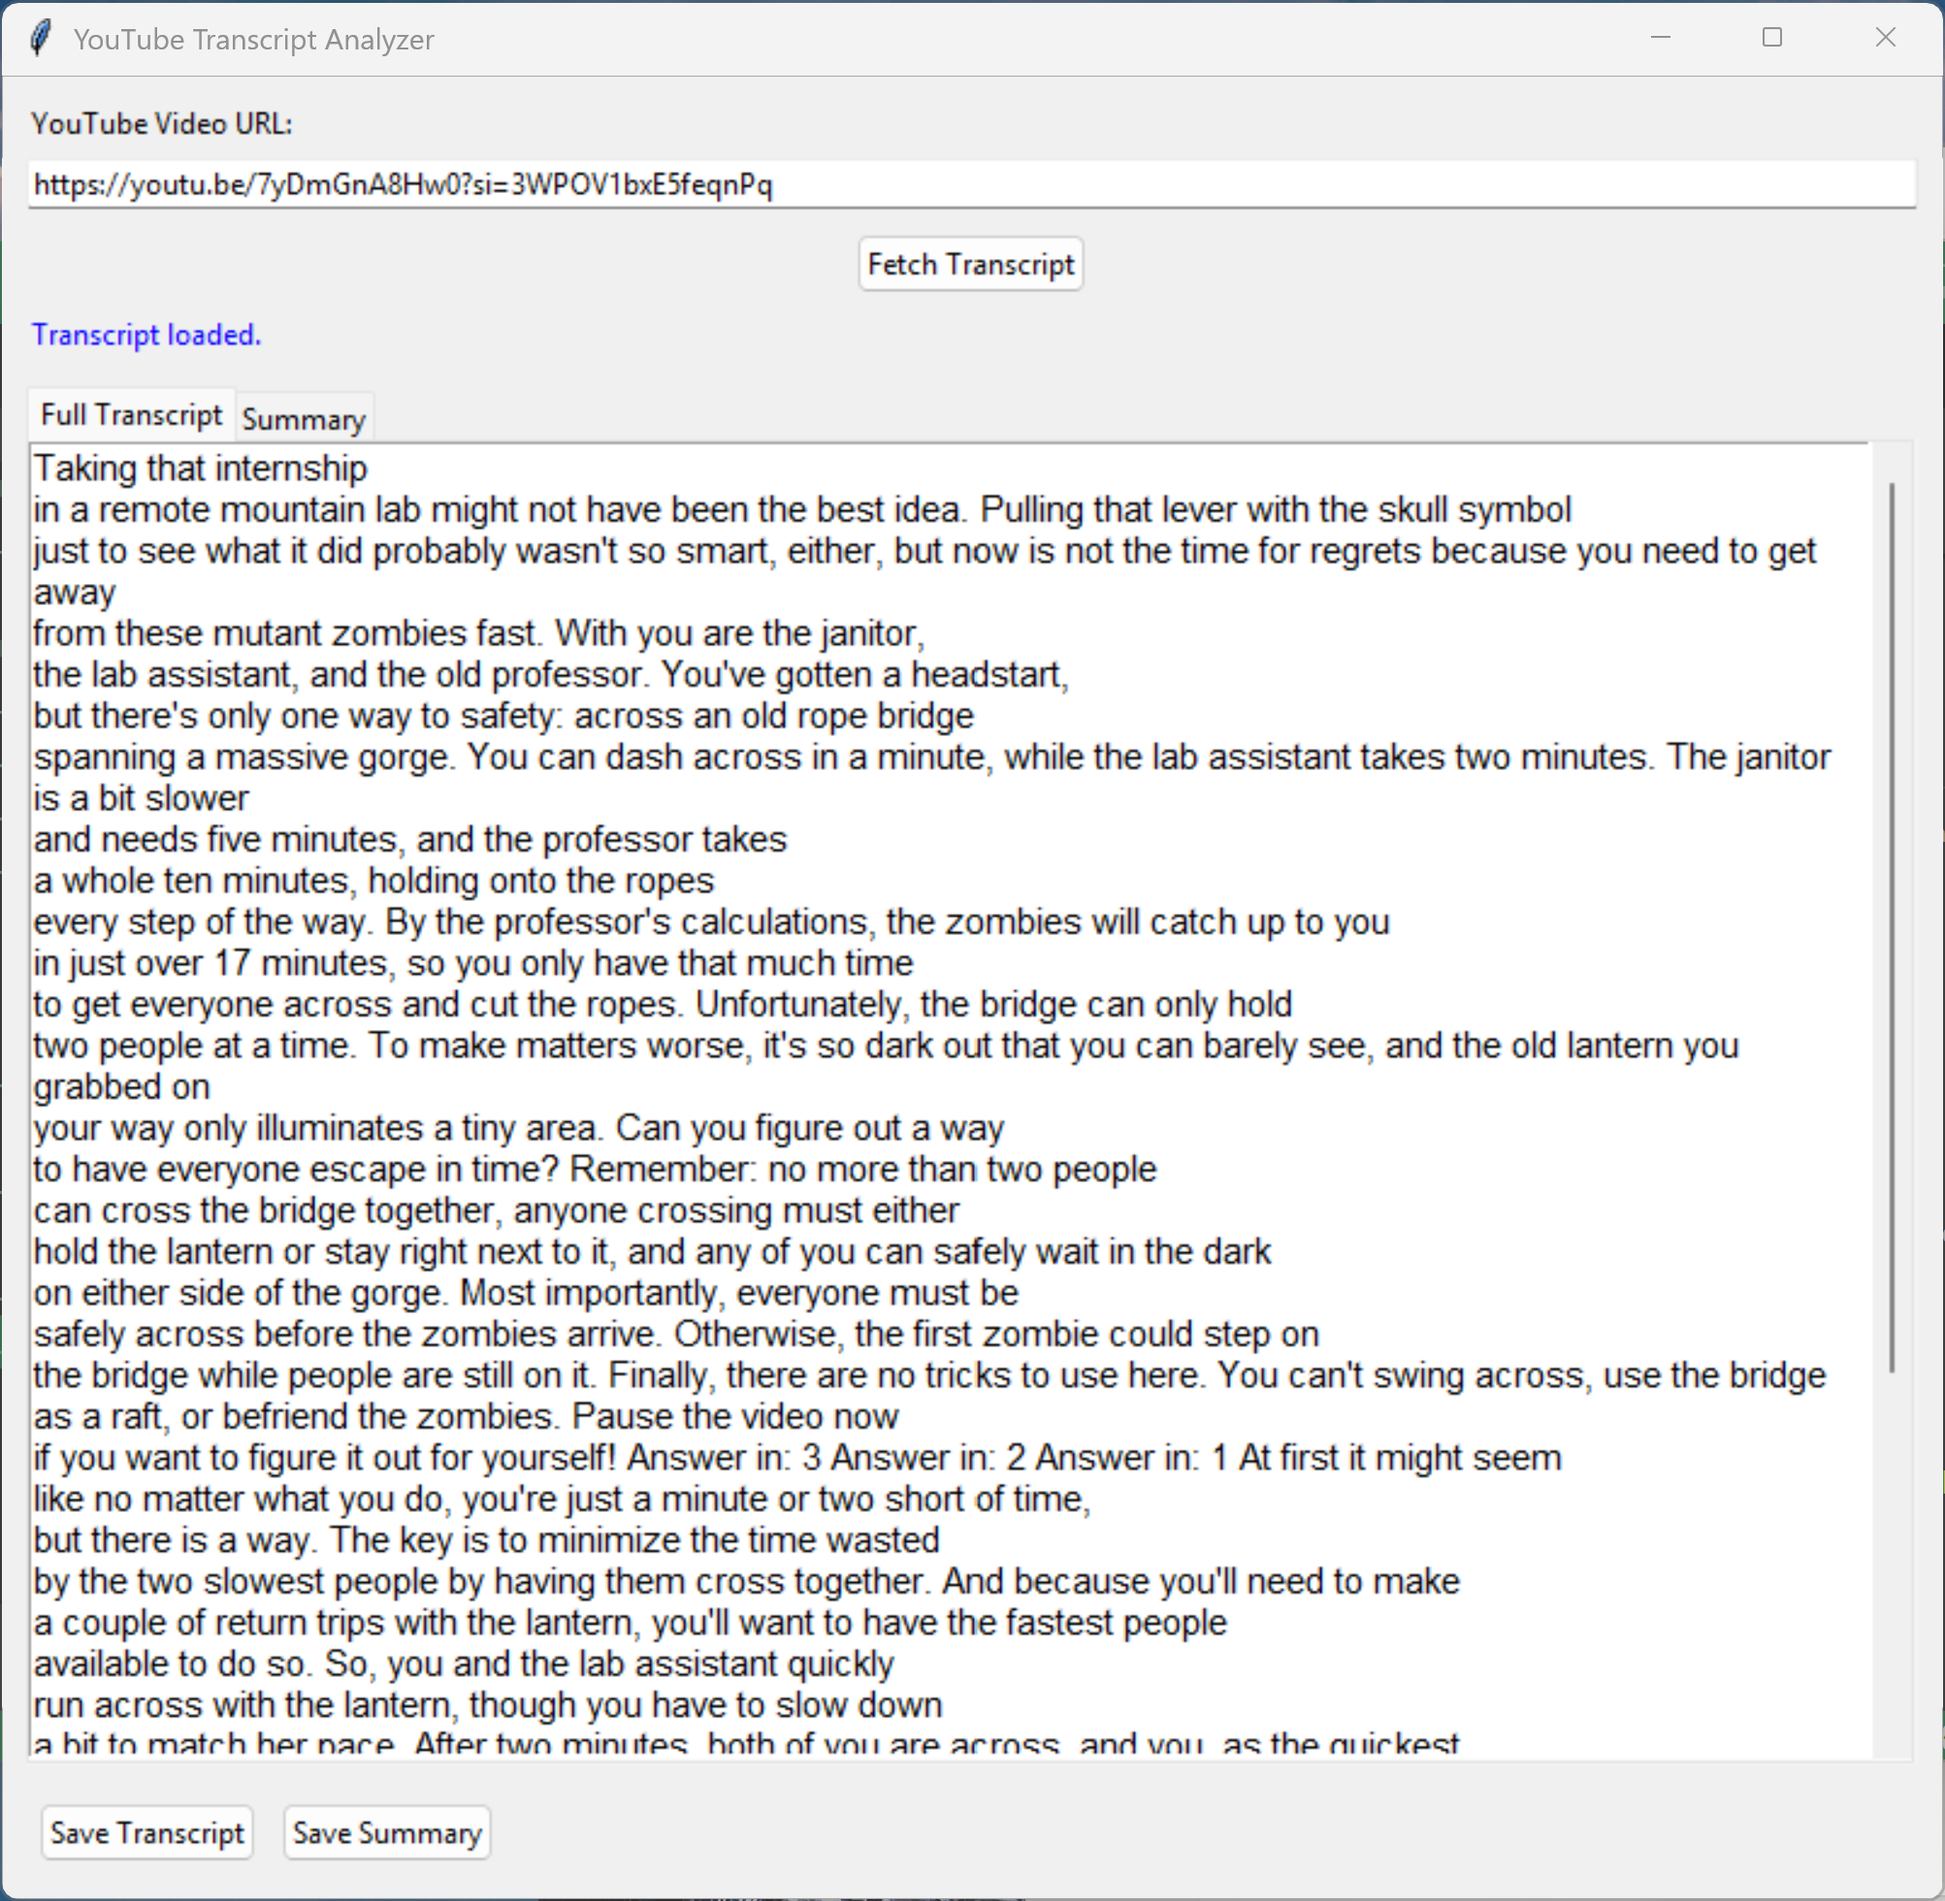
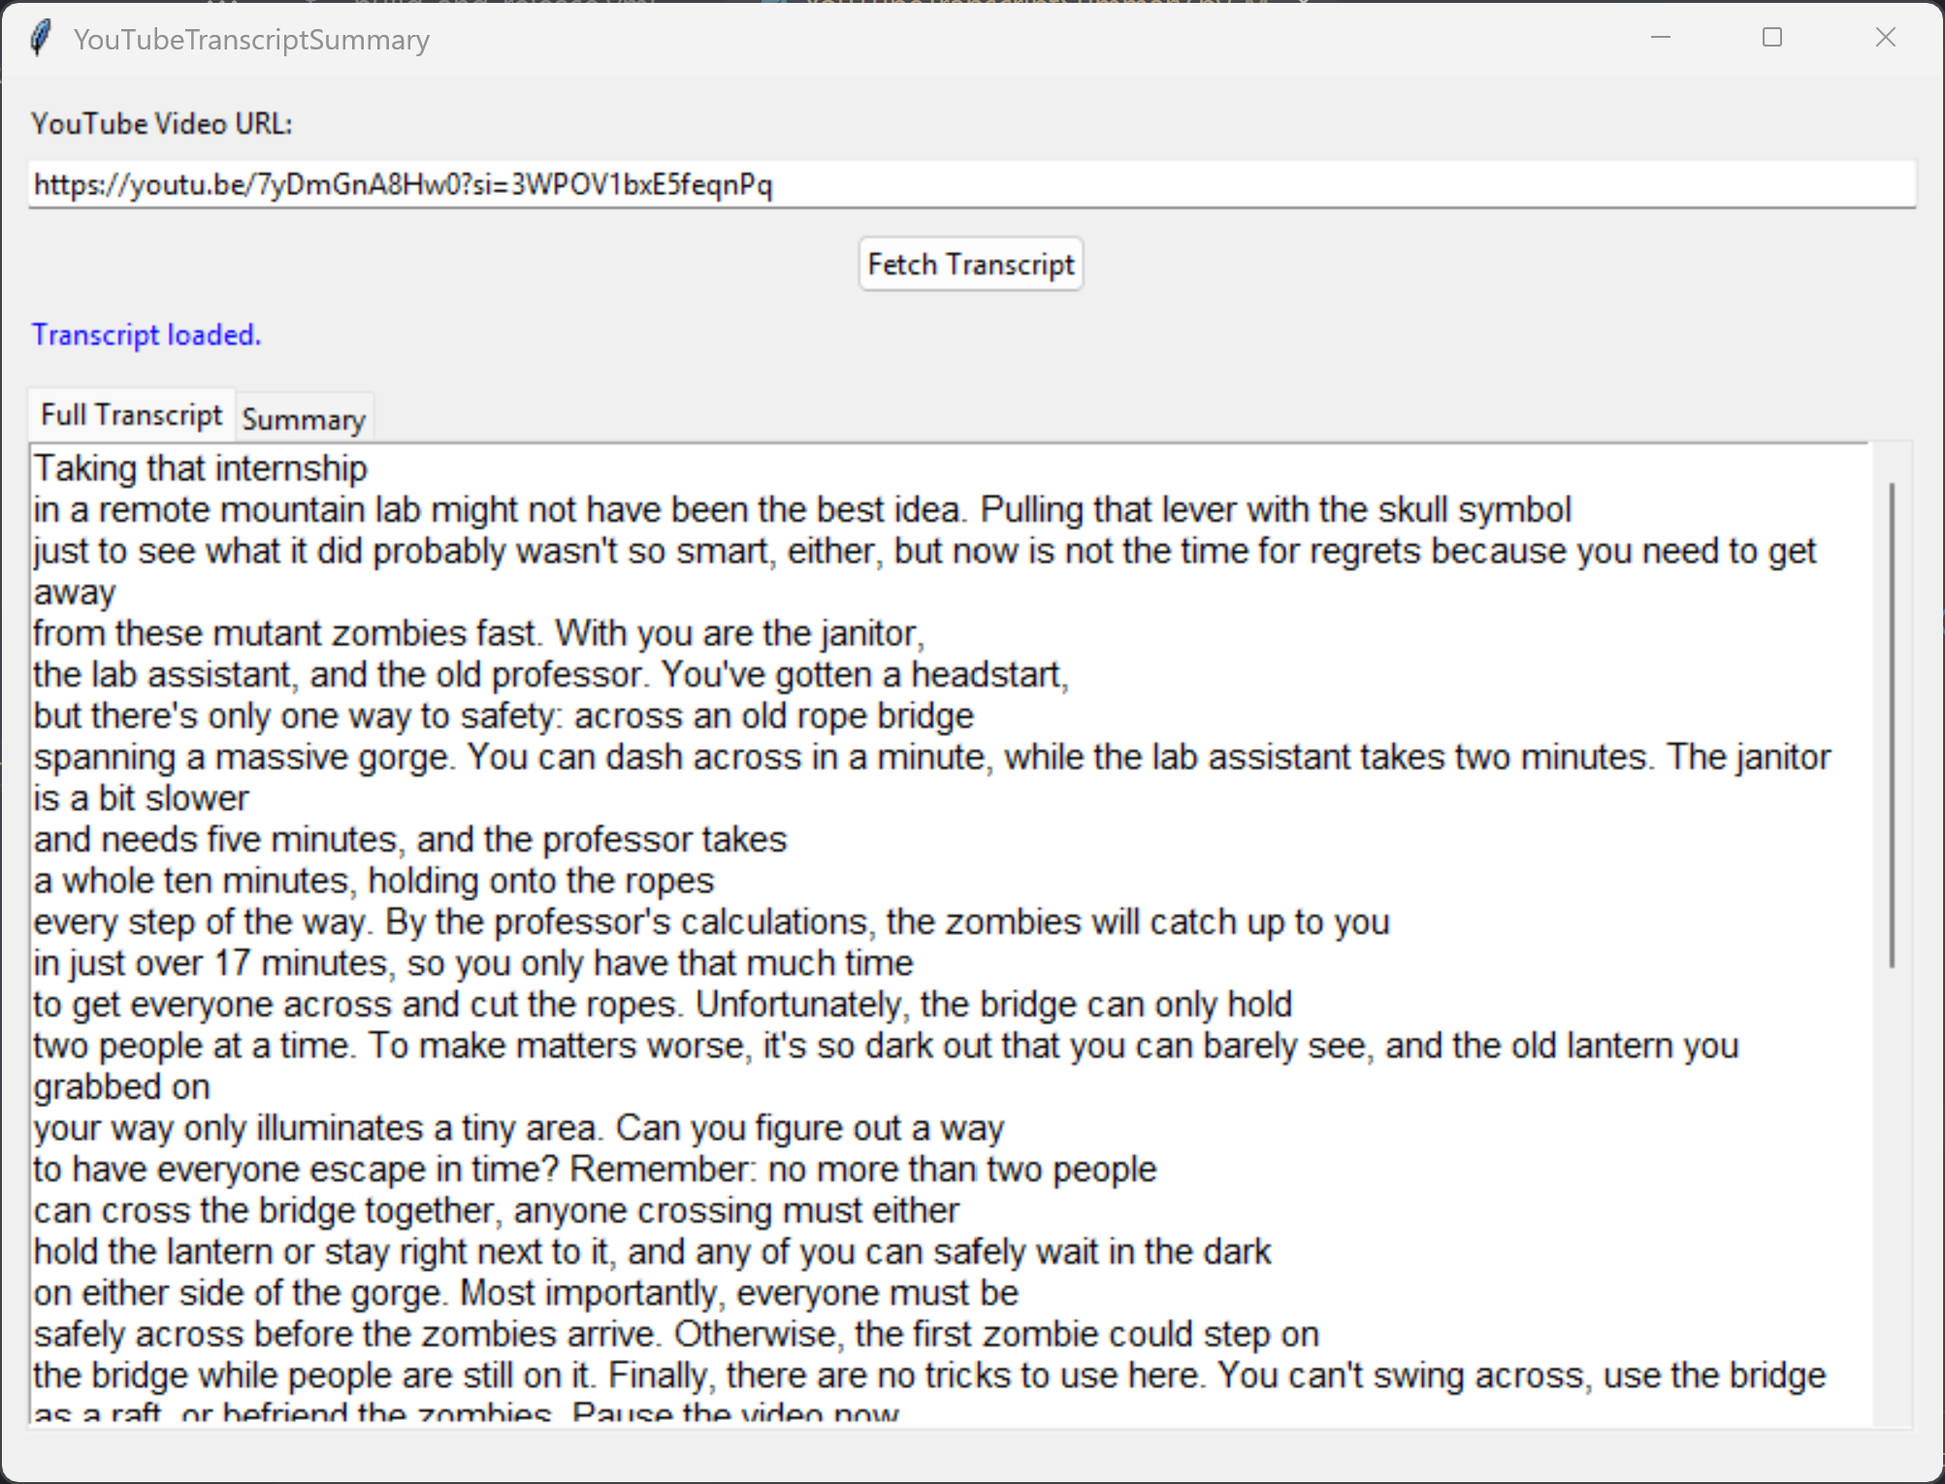
Demo commit for GitHub Actions

diff --git a/YouTubeTranscriptSummary.py b/YouTubeTranscriptSummary.py
@@ -34,7 +34,7 @@ def summarize_text(text, num_sentences=5):
 class YouTubeTranscriptApp:
     def __init__(self, root):
         self.root = root
-        self.root.title("YouTube Transcript Analyzer By AJ")
+        self.root.title("YouTubeTranscriptSummary")
         self.root.geometry("800x600")
         self.create_widgets()
 

diff --git a/README.md b/README.md
@@ -1,85 +1,75 @@
-# 📽 **YouTube Video Analyzer by AJ**
 
-![Release](https://img.shields.io/github/v/release/jentimanatol/YouTubeVideoAnalyzer?label=Latest%20Release&style=for-the-badge)  
+
+
+![Release](https://img.shields.io/github/v/release/jentimanatol/YouTubeTranscriptSummary?label=Latest%20Release&style=for-the-badge)  
 ![Platform](https://img.shields.io/badge/platform-Windows-blue?style=for-the-badge)  
 ![License](https://img.shields.io/badge/license-MIT-green?style=for-the-badge)
-
-> ⚡ Analyze, extract, and download YouTube video metadata with a clean, easy-to-use Python GUI — perfect for research, content review, or media archiving.
 
 ---
 
 ## 🧾 About This Project
 
-**YouTube Video Analyzer** is a streamlined desktop application that lets users extract in-depth video metadata from YouTube links, including titles, views, channels, publish dates, and even download options.
+This project showcases:
 
-This project demonstrates:
-
-* YouTube metadata extraction using `pytube`  
-* GUI development using `tkinter`  
-* Modular, user-friendly Python design  
-* Real-world problem solving via digital tools  
+- YouTube transcript and metadata extraction using `pytube`  
+- GUI development with `tkinter`  
+- Modular, beginner-friendly Python structure  
+- A real-world solution for video analysis and automation
 
 ---
 
-## 🎓 Project Background: BHCC Academic Contribution
+## 🎓 Academic Context: BHCC Contribution
 
-This project was developed as part of **PROJECT 5: MOBILE APP DEVELOPMENT** under the **CIT-113-01 - Info Tech Problem Solving** course at **Bunker Hill Community College (BHCC)** during the Spring 2025 semester. The course emphasizes:
+This project was developed as part of **PROJECT 5: MOBILE APP DEVELOPMENT**  
+for the course **CIT-113-01: Info Tech Problem Solving** at **Bunker Hill Community College (BHCC)** during the Spring 2025 semester.
 
-- Project-based learning (PBL) with real-world application  
-- Ethical programming and responsible digital citizenship  
-- Critical thinking and independent creativity  
-- Blended instruction: online learning + live team collaboration  
+The course emphasizes:
 
-> 💬 *"The goal isn’t just to code — it's to build tools that help people make sense of their digital world."*
+- Project-based learning (PBL) with real-world relevance  
+- Ethical and responsible software development  
+- Creative problem solving and independent thinking  
+- A blended approach: online learning + live collaboration  
 
-This project aligns with core learning outcomes:
+> 💬 *"The goal isn’t just to code — it’s to build tools that help people make sense of their digital world."*
 
-- Apply Python to analyze and automate digital tasks  
-- Create GUI-based applications that solve practical problems  
-- Use APIs and web protocols responsibly  
-- Reflect on the societal impact of digital tools  
+This project aligns with course learning outcomes:
+
+- Apply Python to solve practical digital tasks  
+- Build interactive GUI applications  
+- Use APIs and protocols responsibly  
+- Reflect critically on the role of technology in society
 
 ---
 
 ## 🔽 Download
 
-📦 Get the latest executable:  
-➡ **[Download YouTube Video Analyzer (.exe)](https://github.com/jentimanatol/YouTubeVideoAnalyzer/releases/latest)**
+📦 **Get the latest executable:**  
+👉 [Download YouTubeTranscriptSummary (.exe)](https://github.com/jentimanatol/YouTubeTranscriptSummary/releases/latest)
 
-📁 View or fork the source:  
-🔍 **[Browse all releases](https://github.com/jentimanatol/YouTubeVideoAnalyzer/releases)**
-
----
-
-## 🚀 Features Overview
-
-* 🔍 **Analyze YouTube video metadata**
-* 🧠 **Extract title, views, likes, publish date, duration, and description**
-* 💾 **Download video in MP4 format or audio in MP3**
-* 🧰 **Handles common API issues with built-in error catching**
-* 🖼 **Simple, accessible GUI for all skill levels**
+📁 **Browse or fork the source:**  
+🔍 [Explore all releases](https://github.com/jentimanatol/YouTubeTranscriptSummary/releases)
 
 ---
 
 ## 🧑🏫 Who Should Use This?
 
-* 🎓 **Students** analyzing YouTube content for class  
-* 🎥 **Content creators** studying performance metrics  
-* 🧑💼 **Researchers or journalists** collecting video info  
-* 🗃 **Archivists** cataloging metadata from channels  
+- 🎓 **Students** analyzing YouTube videos for assignments or presentations  
+- 🎥 **Content creators** reviewing video metadata and performance  
+- 🧑💼 **Researchers or journalists** retrieving and archiving video info  
+- 🗃 **Archivists** organizing YouTube content efficiently
 
-Whether you’re studying trends, archiving content, or analyzing performance — this tool saves time and boosts accuracy.
+Whether you're studying trends, managing digital collections, or analyzing content performance — this app helps you save time and increase accuracy.
 
 ---
 
-## 🛠 How It Works
+## ⚙ How It Works
 
 1. **Paste a YouTube link into the app**  
-2. **Click "Analyze"** to retrieve video metadata  
-3. **Optionally download** the video or audio file  
-4. ✅ Review metadata or archive for future use  
+2. **Click “Analyze”** to fetch metadata and transcript  
+3. **Optionally download** the video or audio  
+4. ✅ Review, save, or export the results
 
-Built-in error handling ensures smoother operation across a variety of video types and formats.
+Robust error handling ensures reliable results across different video types and formats.
 
 ---
 
@@ -87,50 +77,48 @@ Built-in error handling ensures smoother operation across a variety of video typ
 
 ![Main UI](screenshots/Screenshot1.png)  
 ![Main UI](screenshots/Screenshot2.png)  
-![Main UI](screenshots/Screenshot3.png)  
 
-
-
-
-*A clean interface designed for practical video research and metadata analysis.*
+*A clean and intuitive interface for video research and transcript analysis.*
 
 ---
 
 ## 💡 Why I Built This
 
-YouTube is a huge educational and cultural archive — but pulling structured information from it can be tedious. I built this app to make metadata collection simple, fast, and user-friendly for anyone doing research, teaching, or organizing content.
+YouTube is a vast archive of educational, cultural, and social content — but extracting structured data from it can be time-consuming.
 
-It reflects my interest in:
+This app was built to simplify metadata and transcript collection for:
 
-* Digital automation  
-* Data analysis & media studies  
-* Ethical access to open content  
-* UI simplicity with real utility  
+- Academic research  
+- Content organization  
+- Digital media analysis  
+
+It reflects my passion for:
+
+- Automation and digital efficiency  
+- Media and data literacy  
+- Accessible open-source tools  
+- Clean, practical UI design
 
 ---
 
 ## 🛠 Tech Stack
 
-* `Python 3.11+`  
-* `pytube` (for video data and download)  
-* `tkinter` (for GUI)  
-* `os`, `threading`, `datetime` (core modules)  
-* `matplotlib` (optional visual analytics)
+- `Python 3.11+`  
+- `pytube` — for video/transcript extraction  
+- `tkinter` — for the graphical user interface  
+- `os`, `threading`, `datetime` — core functionality  
+- `matplotlib` — optional for visual data plots
 
-Optional:  
-* `pyinstaller` — for `.exe` packaging  
-* `pydub` — for enhanced audio conversion
+Optional tools:
+
+- `pyinstaller` — for building `.exe` distributions  
+- `pydub` — for advanced audio conversion
 
 ---
 
 ## 📃 License & Credits
 
-🆓 **MIT License** — use, modify, and distribute freely.
+🆓 **MIT License** — use, modify, and share freely.
 
-👤 Created by **Anatolie Jentimir**  
-🎓 Developed at **Bunker Hill Community College**  
-📅 Spring 2025 – **CIT-113-01: Info Tech Problem Solving**  
-👨🏫 Instructor: Professor Jaime Mahoney
-
-> *If this app helps you simplify your workflow or enhances your content analysis — I’d love to hear from you. Contributions welcome!*
-
+👤 Developed by **Anatolie Jentimir**  
+🎓 Created for **Bunker Hill Community College** coursework
